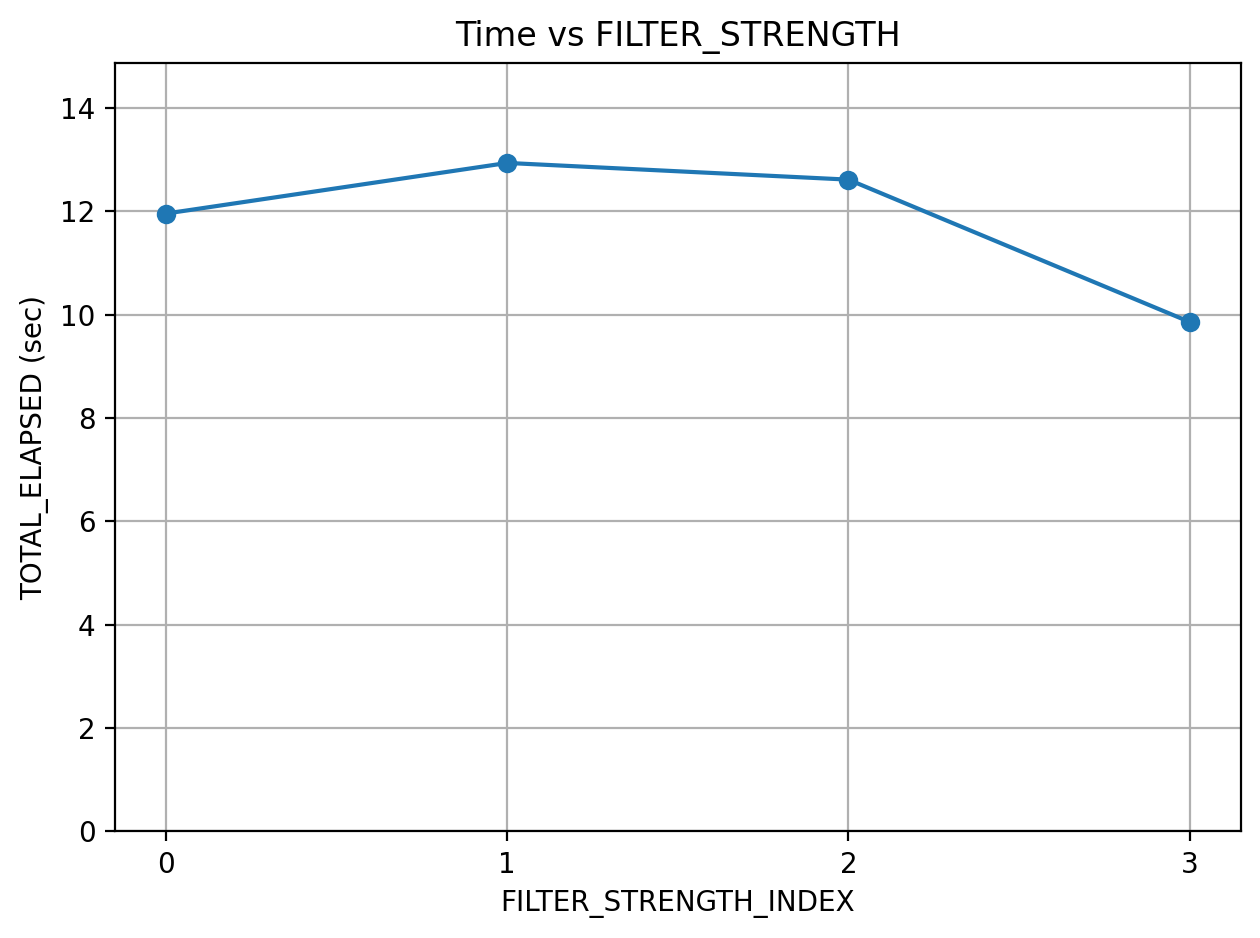
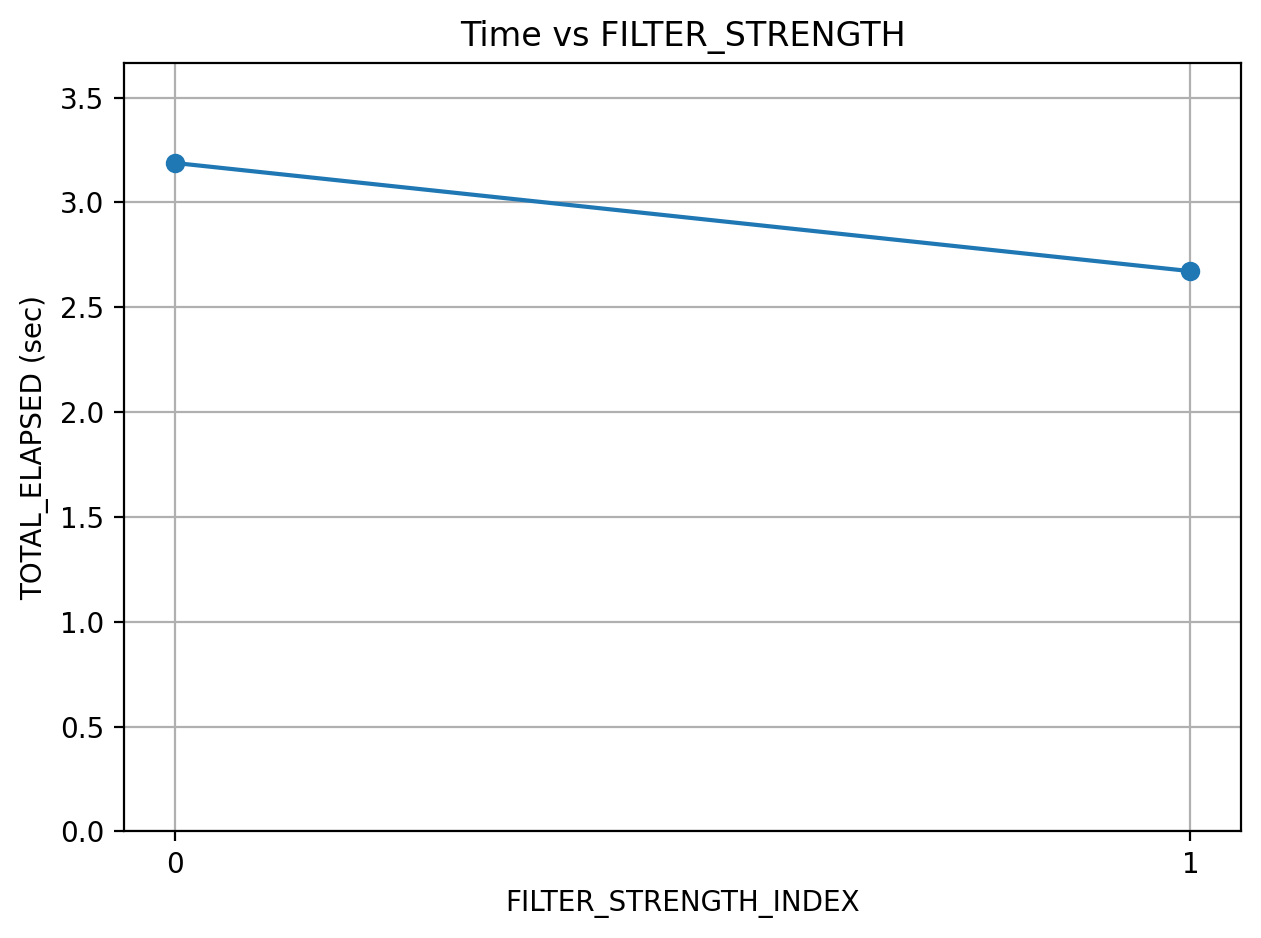
vxdfv

diff --git a/java/src/main/java/experimentation/Experimentation.java b/java/src/main/java/experimentation/Experimentation.java
@@ -475,23 +475,23 @@ public class Experimentation {
             Path csvPath = dir.resolve("results_strength.csv");
 
             // =====================================================================
-            var severities = List.of(
-                FilterStrength.Level.OFF,
-                FilterStrength.Level.EASY,
-                FilterStrength.Level.MEDIUM,
-                FilterStrength.Level.HARD
-            );
-            
-            // var severities = List.of(
+            // var strengths = List.of(
             //     FilterStrength.Level.OFF,
-            //     FilterStrength.Level.EASY
+            //     FilterStrength.Level.EASY,
+            //     FilterStrength.Level.MEDIUM,
+            //     FilterStrength.Level.HARD
             // );
+            
+            var strengths = List.of(
+                FilterStrength.Level.OFF,
+                FilterStrength.Level.EASY
+            );
 
-            // var severities = List.of(
+            // var strengths = List.of(
             //     FilterStrength.Level.OFF
             // );
 
-            // var severities = List.of(
+            // var strengths = List.of(
             //     FilterStrength.Level.EASY
             // );
             // =====================================================================
@@ -504,7 +504,7 @@ public class Experimentation {
             )) {
                 w.write("STRENGTH_CODE,STRENGTH_NAME," + header_1);
 
-                for (FilterStrength.Level level : severities) {
+                for (FilterStrength.Level level : strengths) {
 
                     cfg.refreshConfig();
                     CustomLogger.refreshAll();
